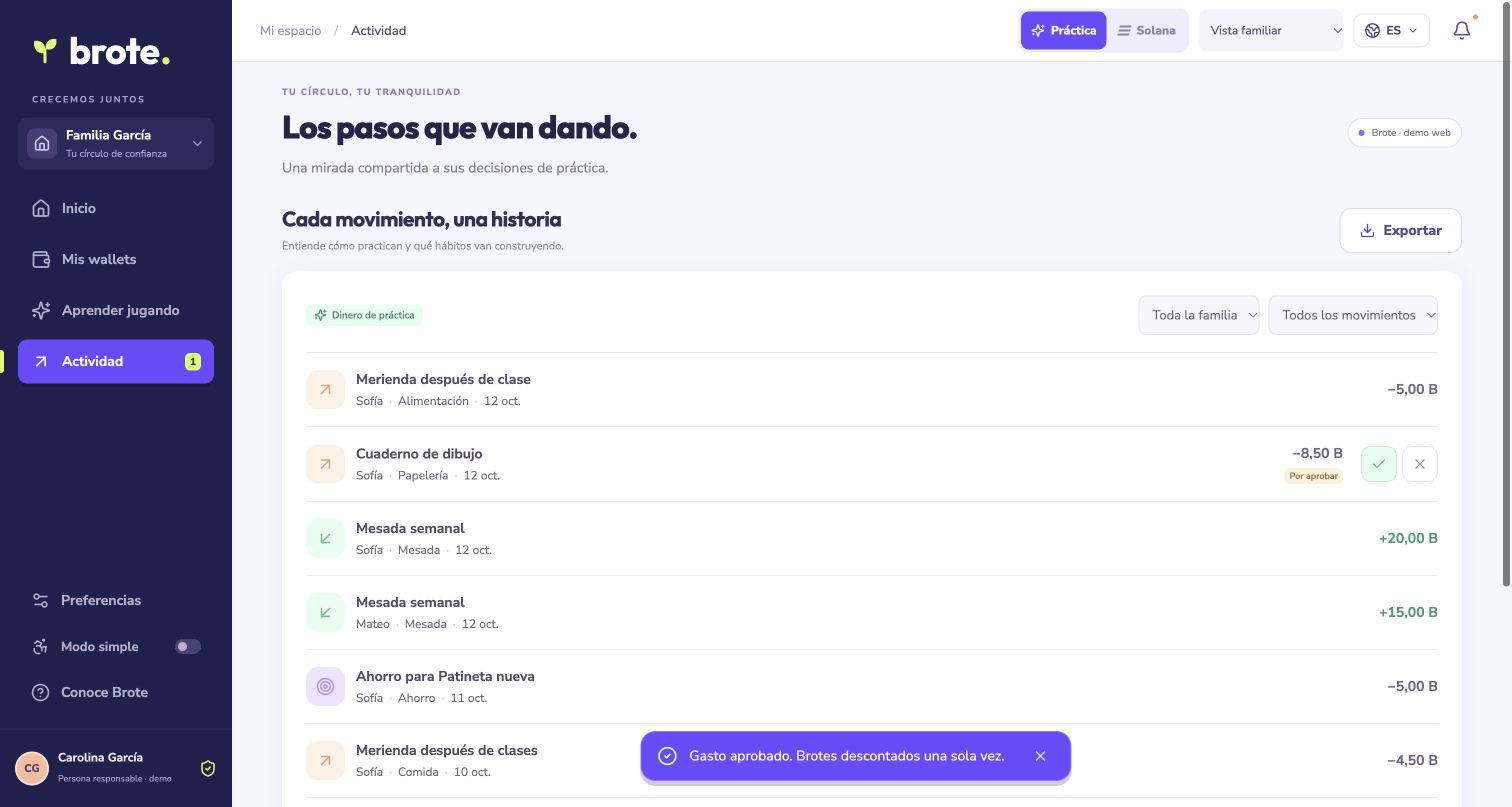
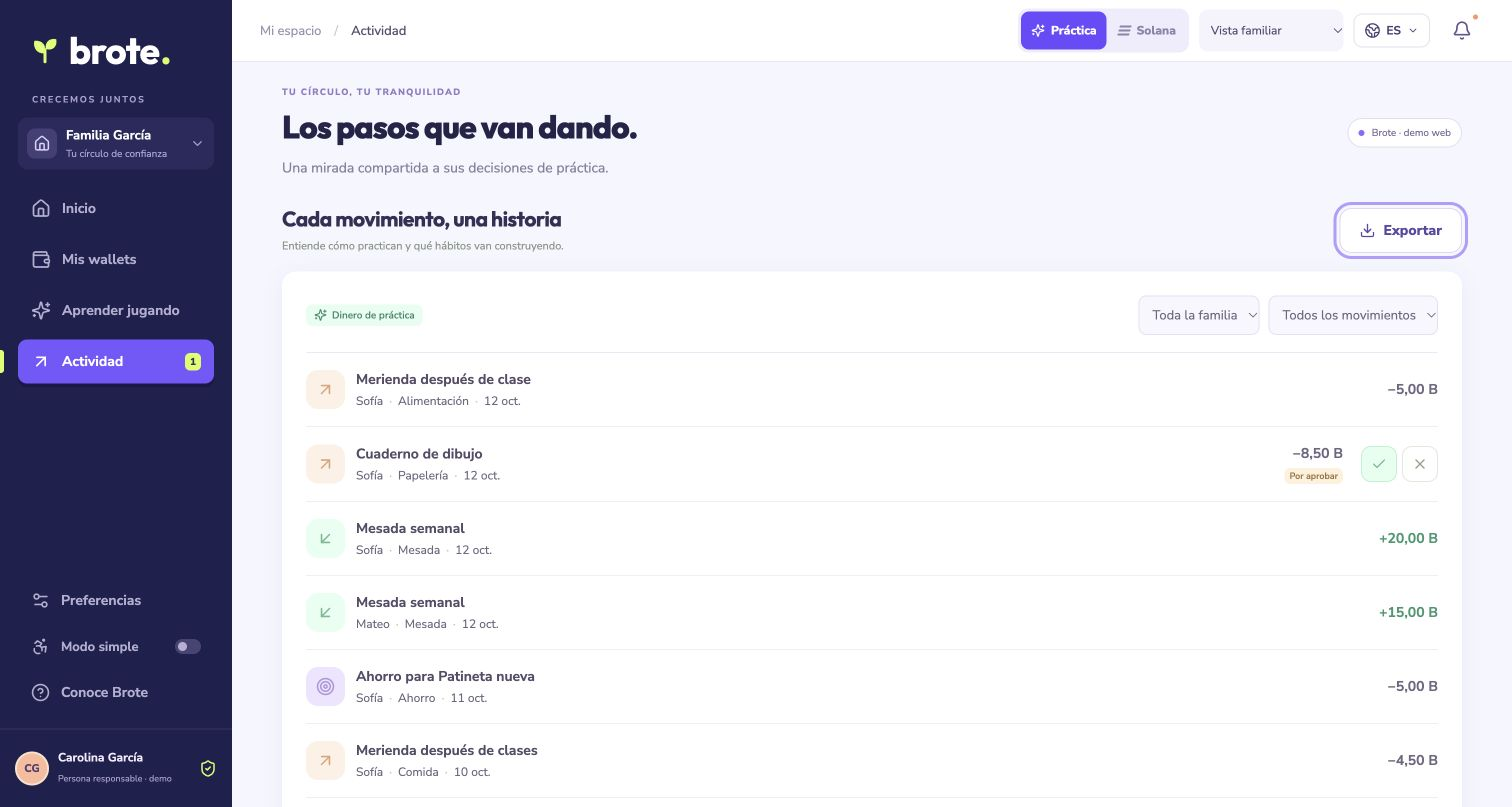
fix(guide): preserve app language and show the activity export control

diff --git a/public/guide/index.html b/public/guide/index.html
@@ -105,8 +105,10 @@
       pt:{skip:"Pular para o conteúdo",languageLabel:"Idioma",title:"Seu guia para começar no Brote",eyebrow:"Aprenda no seu ritmo",intro:"Conheça o app passo a passo e descubra como aprender sobre dinheiro brincando. Pause e volte quando quiser.",burned:"Legendas em espanhol incluídas",videoFallback:"Seu navegador não pode reproduzir este vídeo. Use o link abaixo para baixá-lo.",fullGuide:"Guia completo",durationFull:"2:52 · 1080p",mainTitle:"Tudo o que você precisa, passo a passo",mainDesc:"Aprenda a criar perfis e metas, usar Brotes fictícios e conferir a atividade. Você também vai entender a diferença entre mainnet e testnet e como fazer backups.",topicProfiles:"Perfis e metas",topicPractice:"Brotes de prática",topicSafety:"Redes e backups",downloadVideo:"Baixar vídeo",downloadSubs:"Legendas SRT",quickGuide:"Guia rápido",durationGames:"1:02 · 1080p",gamesTitle:"Aprender também pode ser brincar",gamesDesc:"Explore Mercado aventura e Ilha das metas: dois jogos tranquilos para praticar como comparar preços, cuidar do orçamento, poupar e se planejar para imprevistos.",gameNames:"Mercado aventura · Ilha das metas",nextTitle:"Pronto para experimentar?",nextDesc:"Abra a demo e explore o Brote no seu ritmo.",openDemo:"Abrir a demo",footer:"Brote · Crescemos juntos.",backApp:"Ir para o Brote",pageTitle:"Guia em vídeo · Brote",mainAria:"Guia completo do Brote em espanhol",gamesAria:"Guia dos jogos do Brote em espanhol",topicsAria:"Tópicos do guia",languageAria:"Idioma da página",brandAria:"Brote, ir para o início",videoRegion:"Guias em vídeo",captionLabel:"Espanhol"}
     };
     const picker=document.getElementById('language');
-    function setLanguage(lang){const words=copy[lang]||copy.es;document.documentElement.lang=lang;document.title=words.pageTitle;document.querySelectorAll('[data-i18n]').forEach(node=>{const key=node.dataset.i18n;if(words[key])node.textContent=words[key]});document.querySelectorAll('[data-i18n-aria]').forEach(node=>{const key=node.dataset.i18nAria;if(words[key])node.setAttribute('aria-label',words[key])});picker.setAttribute('aria-label',words.languageAria);document.querySelectorAll('video').forEach((video,index)=>{video.setAttribute('aria-label',index===0?words.mainAria:words.gamesAria);video.querySelector('track').label=words.captionLabel});document.querySelector('.topics').setAttribute('aria-label',words.topicsAria)}
-    picker.addEventListener('change',event=>setLanguage(event.target.value));
+    function setLanguage(lang){const words=copy[lang]||copy.es;document.documentElement.lang=lang==='pt'?'pt-BR':lang;document.title=words.pageTitle;document.querySelector('meta[name=description]').content=words.mainDesc;document.querySelectorAll('[data-i18n]').forEach(node=>{const key=node.dataset.i18n;if(words[key])node.textContent=words[key]});document.querySelectorAll('[data-i18n-aria]').forEach(node=>{const key=node.dataset.i18nAria;if(words[key])node.setAttribute('aria-label',words[key])});picker.setAttribute('aria-label',words.languageAria);document.querySelectorAll('video').forEach((video,index)=>{video.setAttribute('aria-label',index===0?words.mainAria:words.gamesAria);video.querySelector('track').label=words.captionLabel});document.querySelector('.topics').setAttribute('aria-label',words.topicsAria)}
+    picker.addEventListener('change',event=>{setLanguage(event.target.value);try{localStorage.setItem('brote-language',event.target.value)}catch{}});
+    let saved='es';try{const value=localStorage.getItem('brote-language');if(copy[value])saved=value}catch{}
+    picker.value=saved;setLanguage(saved);
   </script>
 </body>
 </html>
